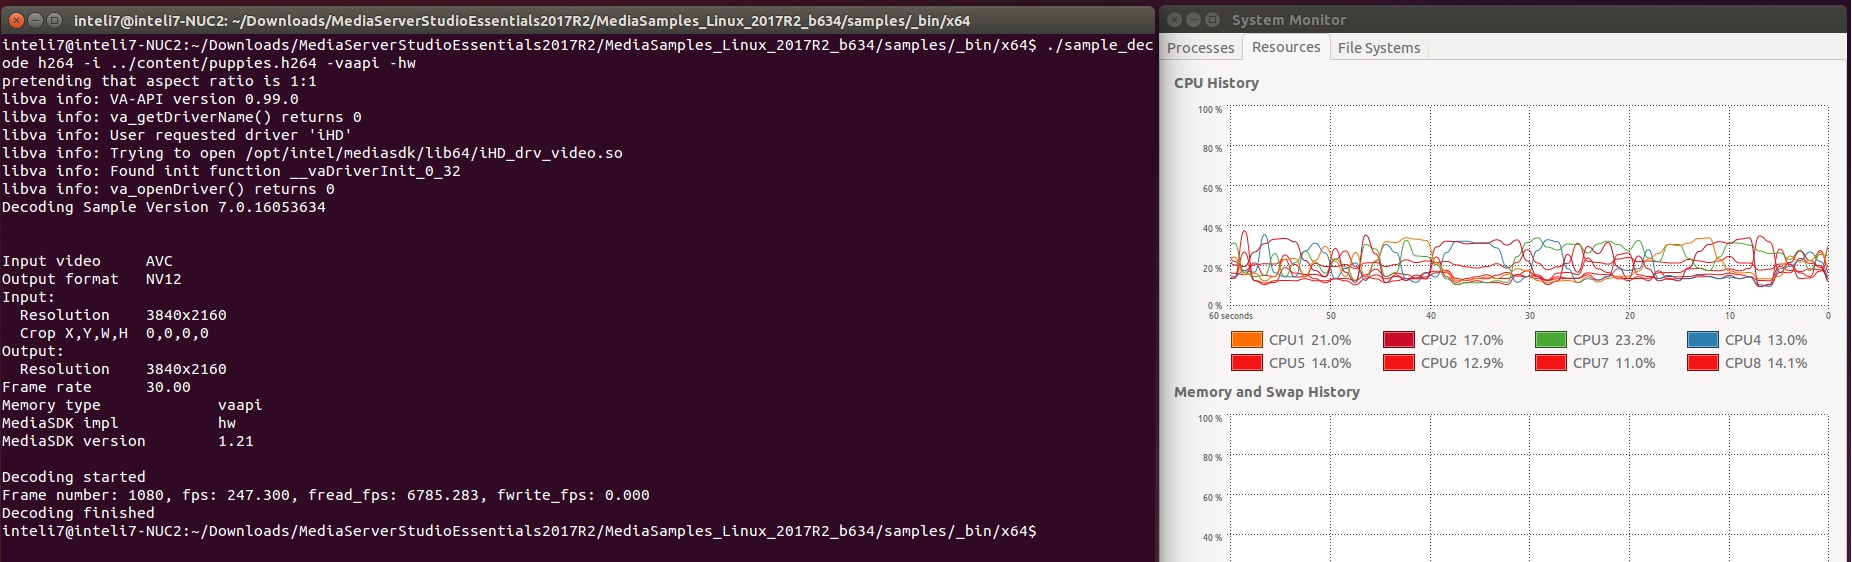
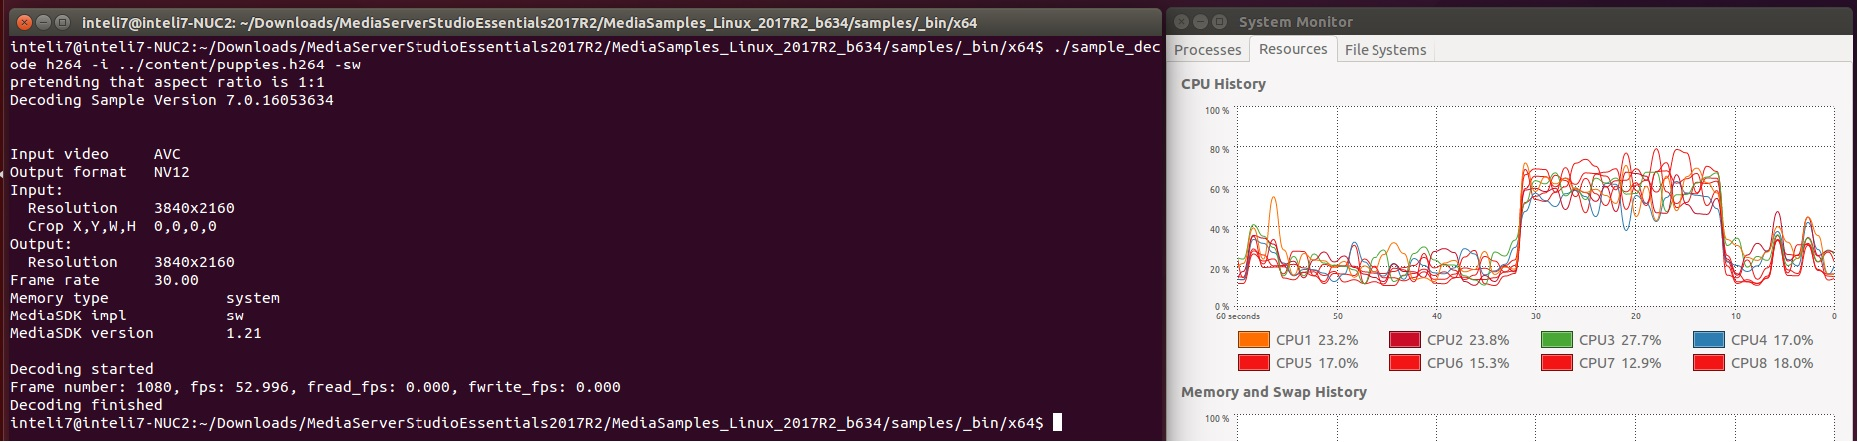
Fixing Video Performance module

diff --git a/app/views/labs/videoperformance-mediasdk/index.html b/app/views/labs/videoperformance-mediasdk/index.html
@@ -31,6 +31,13 @@
               <b>Exploration</b>
               <p>This lab starts with exploring and understanding the media sdk related packages installed in your Intel&reg; NUC.
                  Then understand the customized applications such as sample decoder and video wall bundled with installation. </p>
+              <p>Video Acceleration API (VA API) is a royalty-free API as well as its implementation as free and open-source library (libVA) distributed under the MIT License.
+                The VA API interface is to be implemented by device drivers to offer end-user software, such as VLC media player or GStreamer, access to available video acceleration hardware,
+                such as PureVideo (through the libva-vdpau driver, which implements VA API in terms of VDPAU) or Unified Video Decoder. The API enables and provides access to
+                hardware-accelerated video processing, using hardware such as graphics processing units (GPU) to accelerate video encoding and decoding by offloading processing from the central processing unit (CPU).
+                The VA API specification was originally designed by Intel for its GMA (Graphics Media Accelerator) series of GPU hardware with the specific purpose of eventually replacing the XvMC standard as the default Unix multi-platform equivalent of Microsoft Windows DirectX Video Acceleration (DxVA) API, but today the API is no longer limited to Intel-specific hardware or GPUs.
+                Other hardware and manufacturers can freely use this open standard API for hardware accelerated video processing with their own hardware without paying a royalty fee.
+              </p>
               <b>Observation</b>
                 <p>Performance monitoring using system performance monitoring tool; before and after hardware acceleration.</p>
               <b>Learning Outcome</b>
@@ -44,22 +51,22 @@
                     <ul>
                         <li><b>Media SDK installer</b>
                             <p>Intel&reg; Media Server Studio Professional 2017 by default installs at
-                              <span style="color:#A52A2A"> /opt/&lt;username&gt;/mediasdk/</span></p>
+                              <span style="color:#A52A2A"> /opt/intel/mediasdk/</span></p>
                         </li>
                         <li><b>Media Sample applications</b>
                             <p>Pre built Media SDK samples are available in
-                              <span style="color:#2554C7">/opt/&lt;username&gt;/mediasdk/samples/_bin/ </span>
+                              <span style="color:#2554C7">/opt/intel/mediasdk/samples/_bin/ </span>
                               <p>for 64-bit architecture</p>
                         </li>
                         <li><b>Media SDK Documentation directory </b>
-                            <p><span style="color:#A52A2A">/opt/&lt;username&gt;/mediasdk/doc/</span></p>
+                            <p><span style="color:#A52A2A">/opt/intel/mediasdk/doc/</span></p>
                         </li>
                     </ul>
             </div>
           </div>
 
             <div ibox title="Understand the packages">
-                <div class="alert alert-warning">Go to <span style="color:#A52A2A">/opt/&lt;username&gt;/mediasdk/</span>
+                <div class="alert alert-warning">Go to <span style="color:#A52A2A">/opt/intel/mediasdk/</span>
                     <span>and understand the Package Contents</span>
                 </div>
                   <div content-block name="xdk-issues" message="Check after opening the packages" image-link="../views/labs/videoperformance-mediasdk/images/img001.JPG"></div>
@@ -127,13 +134,18 @@
             </div>
           </div>
             <div ibox title="1. Sample Decoder">
-                <div content-block name="xdk-issues" message="Check after completion of Sample Decoder">
-                    <ul>
-                        <li>Go to <span style="color:#2554C7">/opt/&lt;username&gt;/mediasdk/samples/_bin/ </span></li>
-                        <li>Open the Performance monitoring tool by running "top" command to compare the CPU performance of the below two cases.
-                          <div class="alert alert-info">Note: If you are running any other programs, their process will be added to the CPU & memory utilization.
-                              So try closing all other programs. Then observe the Sample_decode process performance from task manager.</div>
-                        </li>
+                <div content-block name="xdk-issues" message="Check after opening system monitor tool" image-link="../views/labs/videoperformance-mediasdk/images/system_monitor.png">
+                        <p>Go to <span style="color:#2554C7">/opt/intel/mediasdk/samples/_bin/ </span></p>
+                        </br>
+                        <p>Open the Performance monitoring tool by running "top" command or system monitor gui to compare the CPU performance of the below two cases.</p>
+                        <div class="alert alert-info">
+                          Note: If you are running any other programs, their process will be added to the CPU & memory utilization.
+                          So try closing all other programs. Then observe the Sample_decode process performance from system monitor tool.
+                        </div>
+                </div>
+                <div content-block name="xdk-issues" message="Check after completion of sample decoding">
+
+                      <ol>
                         <li>Case 1: Execute the below command for software implementation:
                         </br>
                                 </br>
@@ -160,7 +172,6 @@
                         </li>
                     </ul>
                 </div>
-            </div>
 
             <!--<div ibox title="2. Video Wall">
                 <div content-block name="xdk-issues" message="Check after completion of Video Wall">
@@ -183,28 +194,22 @@
 <div ibox title="1. Sample Encoder">
     <div content-block name="xdk-issues" message="Check after completion of Sample Encoder">
         <ul>
-            <li>Go to <span style="color:#2554C7">/opt/&lt;username&gt;/mediasdk/samples/_bin/ </span></li>
-            <li>Open the Performance monitoring tool by running "top" command to compare the CPU performance of the below two cases.
+            <li>Go to <span style="color:#2554C7">/opt/intel/mediasdk/samples/_bin/ </span></li>
+            <li>Open the Performance monitoring tool by running "top" command or system monitor gui tool to compare the CPU performance of the below two cases.
               <div class="alert alert-info">Note: If you are running any other programs, their process will be added to the CPU & memory utilization.
                   So try closing all other programs. Then observe the Sample_encode process performance from task manager.</div>
             </li>
             <li>Case 1: Execute the below command for software implementation:
-            </br>
-                    </br>
+            </br></br>
                         <div class="alert alert-warning"><span style="color:#A52A2A">./sample_encode h264 -i ../content/test_stream_176x96.yuv -o output_sw.h264 -w 720 -h 480 -b 10000 -f 30 -u quality -sw</span></div>
-                        <p>Output & Performance:</p>
-                        <img src="../views/labs/videoperformance-mediasdk/images/MSDK_SW.jpg" />
-                      </br>
-                    </br>
+                        <!--<p>Output & Performance:</p>
+                        <img src="../views/labs/videoperformance-mediasdk/images/MSDK_SW.jpg" /> -->
             </li>
             <li>Case 2: Execute the below command for hardware acceleration:
-            </br>
-                    </br>
+            </br></br>
                         <div class="alert alert-warning"><span style="color:#A52A2A">./sample_encode h264 -i ../content/test_stream_176x96.yuv -o output_sw.h264 -w 720 -h 480 -b 10000 -f 30 -u quality -hw</span></div>
-                        <p>Output & Performance:</p>
-                        <img src="../views/labs/videoperformance-mediasdk/images/MSDK_HW.jpg" />
-                      </br>
-                    </br>
+                        <!-- <p>Output & Performance:</p>
+                        <img src="../views/labs/videoperformance-mediasdk/images/MSDK_HW.jpg" /> -->
             </li>
             <li>Just type sample_encode and explore other command line switches:
                 </br>-o : output to file in RAW formats

diff --git a/app/views/common/navigation.html b/app/views/common/navigation.html
@@ -41,9 +41,9 @@
                     <li ng-class="{active: $state.includes('labs')}">
                         <a href=""><span class="nav-label">Video Performance</span> <span class="fa arrow"></span></a>
                         <ul class="nav nav-third-level collapse" ng-class="{in: $state.includes('labs')}">
-                          <li ui-sref-active="active"><a ui-sref="labs.videoperformance-mediasdk">Explore Intel &reg; Media SDK Samples</a></li>
-                            <li ui-sref-active="active"><a ui-sref="labs.videoperformance-mediasdksamples">Build Video decode app using Intel &reg; Media SDK Samples</a></li>
-                          <!-- <li ui-sref-active="active"><a ui-sref="labs.videoperformance-marsunderstand">Understand Media Acceleration Reference Software</a></li> -->
+                          <li ui-sref-active="active"><a ui-sref="labs.videoperformance-mediasdk">Explore Intel &reg; Media Server Studio Samples</a></li>
+                            <li ui-sref-active="active"><a ui-sref="labs.videoperformance-mediasdksamples">Build Video Decode app using Intel &reg; Media Server Studio Samples</a></li>
+                              <li ui-sref-active="active"><a ui-sref="labs.videoperformance-marsunderstand">Build Video Pre/post Processing app using Intel &reg; Media Server Studio Samples</a></li>
                         </ul>
                     </li>
                     <li ng-class="{active: $state.includes('labs')}">

diff --git a/app/views/labs/videoperformance-mediasdksamples/index.html b/app/views/labs/videoperformance-mediasdksamples/index.html
@@ -230,9 +230,9 @@
 <div ibox title="Configure and generate solution">
   <div content-block name="xdk-issues" message="Check after configuring and generating the solution">
     <p>Run the following command to configure and generate solution for 64bit debug mode using cmake</p>
-    <p>perl build.pl --cmake=intel64,make,debug --build --clean</p>
+    <div class="alert alert-warning"><span style="color:#A52A2A">perl build.pl --cmake=intel64,make,debug --build --clean</span></div>
     <p> Navigate to the directory where sample is generated:</p>
-    <p>cd __cmake/intel64.make.debug/__bin/debug/</p>
+    <div class="alert alert-warning"><span style="color:#A52A2A">cd __cmake/intel64.make.debug/__bin/debug/</span></div>
   </div>
 </div>
 
@@ -248,12 +248,12 @@
    <div content-block name="xdk-issues" message="Check after running the sample">
   <ul>
     <li>Case 1: Execute the below command for software implementation:
-            </br>
+    </br></br>
                 <div class="alert alert-warning"><span style="color:#A52A2A">./sample_decode h264 -i ../content/test_stream.h264 -o output_sw.yuv -sw</span></div>
             </br>
     </li>
     <li>Case 2: Execute the below command for hardware acceleration:
-    </br>
+    </br></br>
                 <div class="alert alert-warning"><span style="color:#A52A2A">./sample_decode h264 -i ../content/input.h264 -o output_hw.yuv -vaapi -hw</span></div>
     </li>
   </ul>

diff --git a/app/views/labs/remote-configamt/index.html b/app/views/labs/remote-configamt/index.html
@@ -34,7 +34,7 @@
         <li>Goto the following folder from terminal <div class="alert alert-warning"><span style="color:#A52A2A">'/Downloads/Linux AMT8 Files/ACUConfig'</span></div></li>
         <li>Execute any one the following commands to configure the AMD in the mounted USB</li>
         <li>For Dhcp: <div class="alert alert-warning"><span style="color:#A52A2A">./ACUConfig ConfigViaUSB -MePassword admin -NewMePassword Intel@1234 -OutputFile &lt;usb name with full path&gt;/Setup.bin -UsingDhcp</span></div></li>
-        <li>For dynamic IP: <div class="alert alert-warning"><span style="color:#A52A2A">./ACUConfig ConfigViaUSB -MePassword admin -NewMePassword Intel@1234 -OutputFile &lt;usb name with full path&gt;/Setup.bin -HostName localhost.localdomain -LocalHostIp &lt;your local host ip such as: 10.224.16.134&gt;  </span></div></li>
+        <li>For static IP: <div class="alert alert-warning"><span style="color:#A52A2A">./ACUConfig ConfigViaUSB -MePassword admin -NewMePassword Intel@1234 -OutputFile &lt;usb name with full path&gt;/Setup.bin -HostName localhost.localdomain -LocalHostIp &lt;your local host ip such as: 10.224.16.134&gt;  </span></div></li>
         <li>Verify the availability of Setup.bin file in the mounted USB</li>
       </ul>
     </div>
